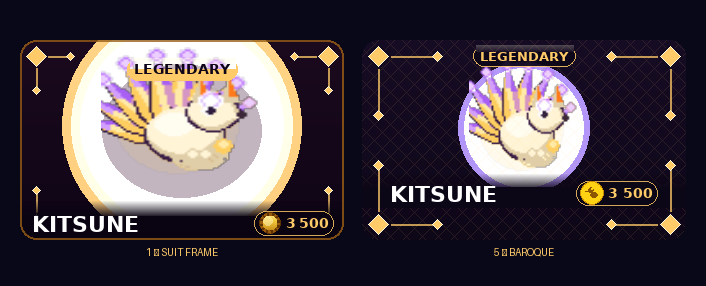
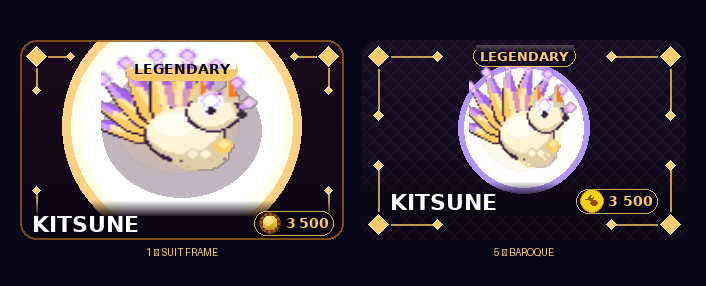
Design 5 baroque: center nameplate symmetrically between small pip and card bottom
Center between small pip y=125 and card bottom y=200: (125+200)//2=162.
band_y=148 (gap_above=23px to small pip), INNER_BOT=176 (gap_below=24px to card bottom).
Symmetric within 1px.

Claude-Session: https://claude.ai/code/session_01PHa7j1dH3g5BMmmcCU5mZW

Changed region(s): [[0.5297, 0.5874, 0.9348, 0.7552]]

diff --git a/tools/render_baroque_v5_r2.py b/tools/render_baroque_v5_r2.py
@@ -103,9 +103,9 @@ card.blit(tier_s, (pill_x + PP, pill_y + 3))
 # ── Nameplate: anchored to bottom corner ornaments ────────────────────────────
 _small_pip_y = H - FLOU_INSET - (LARGE_PIP_R + 3 + ARM_LEN)  # = 125
 FOOTER_H  = 28
-_pad      = (H - FLOU_INSET - _small_pip_y - FOOTER_H) // 2  # = 15
-band_y    = _small_pip_y + _pad     # = 140
-INNER_BOT = band_y + FOOTER_H      # = 168
+_center   = (_small_pip_y + H) // 2                          # = 162
+band_y    = _center - FOOTER_H // 2                          # = 148
+INNER_BOT = band_y + FOOTER_H                               # = 176
 for i in range(14):
     a = int(i / 14 * 210)
     s = pygame.Surface((W, 1), pygame.SRCALPHA)
